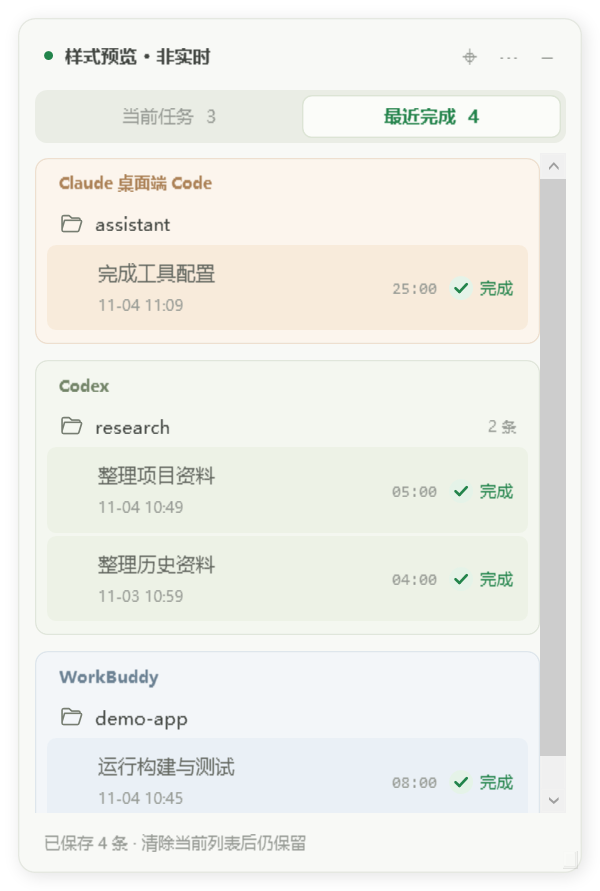
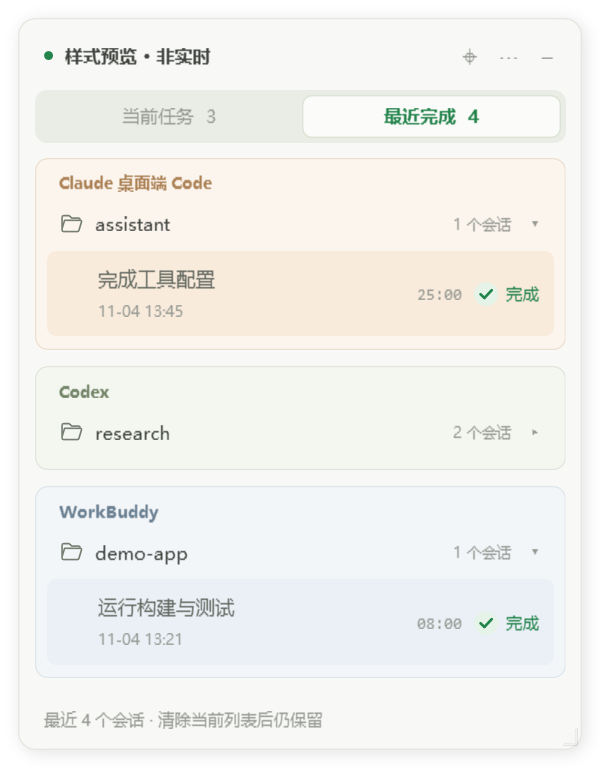
feat: collapse recent folders and show latest completion per session

diff --git a/App.cs b/App.cs
@@ -20,7 +20,7 @@ using Forms = System.Windows.Forms;
 
 [assembly: System.Reflection.AssemblyTitle("一泽的 AI Agent 任务监控")]
 [assembly: System.Reflection.AssemblyProduct("CodexFloat")]
-[assembly: System.Reflection.AssemblyVersion("1.4.1.0")]
+[assembly: System.Reflection.AssemblyVersion("1.5.0.0")]
 namespace CodexFloat {
     static class Program {
         public static string DataDir,Home,WorkBuddyHome,ClaudeHome,CapturePath="",EvidenceDir="";public static bool Demo,DebugTaskbar,PreviewSettings,RenderOnly,InitialRecent;
@@ -111,9 +111,11 @@ namespace CodexFloat {
         string signature="";bool exiting;bool ready;ToastWindow toast;DateTime lastStatusExport;
         List<Session> latest=new List<Session>(),recent=new List<Session>(),displayed=new List<Session>();readonly DateTime demoTime=DateTime.UtcNow;
         bool showingRecent;double currentScroll,recentScroll;
+        readonly HashSet<string> collapsedRecentFolders;
         readonly Dictionary<string,TextBlock> runtimeLabels=new Dictionary<string,TextBlock>();
         public MainWindow(){
             settings=LoadSettings();engine=new MonitoringHub(Program.Home,Program.WorkBuddyHome,Program.DataDir,settings.MonitorCodex,settings.MonitorWorkBuddy,Program.ClaudeHome,settings.MonitorClaude);
+            collapsedRecentFolders=new HashSet<string>(settings.CollapsedRecentFolders??new List<string>(),StringComparer.OrdinalIgnoreCase);
             showingRecent=Program.InitialRecent;
             Title=Program.Demo?"一泽的 AI Agent 样式预览（非实时）":"一泽的 AI Agent 任务监控";FontFamily=new FontFamily("Microsoft YaHei UI, Segoe UI");FontSize=13;
             Width=Math.Max(330,Math.Min(640,settings.Width));SizeToContent=SizeToContent.Height;MinHeight=140;MaxHeight=620;
@@ -178,11 +180,16 @@ namespace CodexFloat {
             showingRecent=history;signature="tab-changed";Refresh();double offset=history?recentScroll:currentScroll;
             Dispatcher.BeginInvoke(new Action(()=>scroll.ScrollToVerticalOffset(offset)),DispatcherPriority.Loaded);
         }
+        void ToggleRecentFolder(string key){
+            if(!collapsedRecentFolders.Remove(key))collapsedRecentFolders.Add(key);
+            settings.CollapsedRecentFolders=collapsedRecentFolders.OrderBy(k=>k,StringComparer.OrdinalIgnoreCase).ToList();SaveSettings();
+            signature="folder-toggled";Refresh();
+        }
         ContextMenu BuildMenu(){var m=Theme.Menu();m.Items.Add(new MenuItem{Header="监控平台",IsEnabled=false});AddCheck(m,"Codex",settings.MonitorCodex,()=>{settings.MonitorCodex=!settings.MonitorCodex;UpdatePlatforms();});AddCheck(m,"WorkBuddy",settings.MonitorWorkBuddy,()=>{settings.MonitorWorkBuddy=!settings.MonitorWorkBuddy;UpdatePlatforms();});AddCheck(m,"Claude 桌面端 Code",settings.MonitorClaude,()=>{settings.MonitorClaude=!settings.MonitorClaude;UpdatePlatforms();});m.Items.Add(new Separator());AddCheck(m,"始终置顶",settings.AlwaysOnTop,()=>ToggleTopmost());AddCheck(m,"完成时播放提示音",settings.Sound,()=>{settings.Sound=!settings.Sound;SaveSettings();});AddCheck(m,"完成时弹出提醒",settings.Notifications,()=>{settings.Notifications=!settings.Notifications;SaveSettings();});m.Items.Add(new Separator());
             var test=new MenuItem{Header="测试完成提醒"};test.Click+=(o,e)=>OnCompleted(new List<Session>{new Session{Title="提醒已开启",Cwd="一泽的 AI Agent 任务监控",Status="completed"}});m.Items.Add(test);
             var reset=new MenuItem{Header="重置窗口位置"};reset.Click+=(o,e)=>{settings.Left=-99999;settings.Top=-99999;PositionWindow();SaveSettings();};m.Items.Add(reset);
             var startup=new MenuItem{Header="开机自动启动",IsCheckable=true,IsChecked=StartupEnabled()};startup.Click+=(o,e)=>SetStartup(startup.IsChecked);m.Items.Add(startup);
-            m.Items.Add(new Separator());var about=new MenuItem{Header="关于 / 使用说明"};about.Click+=(o,e)=>MessageBox.Show(this,"一泽的 AI Agent 任务监控 1.4.1\n\n支持 Codex / WorkBuddy / Claude 桌面端 Code，在菜单中勾选监控平台。\n新一轮开始会自动加入列表。\n绿色代表本轮结束，点击标题打开对应对话。\n中断不会标为完成；状态待确认时不会误报。\n完成记录在「最近完成」保留最近 200 条。\n清除当前列表不影响完成记录。\n拖动顶部移动；右下角调整宽度。\n\n仅在本机读取会话元数据，无网络请求。\n配置与监控记录："+Program.DataDir+"\n\n项目：github.com/YizeAINative/yize-codex-monitor\n参考：github.com/LH-03/agent-monitor-hud", "关于一泽的 AI Agent 任务监控");m.Items.Add(about);
+            m.Items.Add(new Separator());var about=new MenuItem{Header="关于 / 使用说明"};about.Click+=(o,e)=>MessageBox.Show(this,"一泽的 AI Agent 任务监控 1.5.0\n\n支持 Codex / WorkBuddy / Claude 桌面端 Code，在菜单中勾选监控平台。\n新一轮开始会自动加入列表。\n绿色代表本轮结束，点击标题打开对应对话。\n中断不会标为完成；状态待确认时不会误报。\n完成记录在「最近完成」保留最近 200 条。\n清除当前列表不影响完成记录。\n拖动顶部移动；右下角调整宽度。\n\n仅在本机读取会话元数据，无网络请求。\n配置与监控记录："+Program.DataDir+"\n\n项目：github.com/YizeAINative/yize-codex-monitor\n参考：github.com/LH-03/agent-monitor-hud", "关于一泽的 AI Agent 任务监控");m.Items.Add(about);
             var exit=new MenuItem{Header="退出软件"};exit.Click+=(o,e)=>Exit();m.Items.Add(exit);return m;}
         void AddCheck(ContextMenu m,string name,bool check,Action action){var item=new MenuItem{Header=name,IsCheckable=true,IsChecked=check};item.Click+=(o,e)=>action();m.Items.Add(item);}
         bool StartupEnabled(){using(var key=Microsoft.Win32.Registry.CurrentUser.OpenSubKey(@"Software\Microsoft\Windows\CurrentVersion\Run"))return key!=null&&key.GetValue("CodexFloat")!=null;}
@@ -191,9 +198,9 @@ namespace CodexFloat {
             new Session{Id="11111111-1111-4111-8111-111111111111",Title="整理项目资料",Cwd=@"C:\Projects\research",Status="running",Visible=true,StartedAt=demoTime.AddMinutes(-8)},
             new Session{Id="22222222-2222-4222-8222-222222222222",Platform="workbuddy",Title="运行构建与测试",Cwd=@"C:\Projects\demo-app",Status="running",Visible=true,StartedAt=demoTime.AddMinutes(-12)},
             new Session{Id="33333333-3333-4333-8333-333333333333",Platform="claude",Title="完成工具配置",Cwd=@"C:\Projects\assistant",Status="completed",Visible=true,StartedAt=demoTime.AddMinutes(-25),FinishedAt=demoTime}};}
-        List<Session> DemoHistory(){var result=DemoSessions();for(int i=0;i<result.Count;i++){if(result[i].Status!="completed"){result[i].Status="completed";result[i].FinishedAt=demoTime.AddMinutes(-20-i*4);result[i].StartedAt=result[i].FinishedAt.AddMinutes(-5-i*3);}result[i].TurnId="demo-round-"+i;}var earlier=result[0].Copy();earlier.Id="44444444-4444-4444-8444-444444444444";earlier.TurnId="demo-earlier";earlier.Title="整理历史资料";earlier.FinishedAt=demoTime.AddDays(-1).AddMinutes(-10);earlier.StartedAt=earlier.FinishedAt.AddMinutes(-4);result.Add(earlier);return result.OrderByDescending(s=>s.FinishedAt).ToList();}
+        List<Session> DemoHistory(){var result=DemoSessions();for(int i=0;i<result.Count;i++){if(result[i].Status!="completed"){result[i].Status="completed";result[i].FinishedAt=demoTime.AddMinutes(-20-i*4);result[i].StartedAt=result[i].FinishedAt.AddMinutes(-5-i*3);}result[i].TurnId="demo-round-"+i;}var earlier=result[0].Copy();earlier.Id="44444444-4444-4444-8444-444444444444";earlier.TurnId="demo-earlier";earlier.Title="整理历史资料";earlier.FinishedAt=demoTime.AddDays(-1).AddMinutes(-10);earlier.StartedAt=earlier.FinishedAt.AddMinutes(-4);result.Add(earlier);return CompletionHistory.LatestPerSession(result);}
         public void RenderPreview(string path){
-            latest=DemoSessions();recent=DemoHistory();displayed=showingRecent?recent:latest;currentTab.Content="当前任务  "+latest.Count;recentTab.Content="最近完成  "+recent.Count;currentTab.IsChecked=!showingRecent;recentTab.IsChecked=showingRecent;clear.Visibility=showingRecent?Visibility.Collapsed:Visibility.Visible;summary.Text=showingRecent?"已保存 "+recent.Count+" 条 · 清除当前列表后仍保留":"2 个处理中 · 1 个完成";BuildList();var visual=(FrameworkElement)Content;
+            latest=DemoSessions();recent=DemoHistory();displayed=showingRecent?recent:latest;currentTab.Content="当前任务  "+latest.Count;recentTab.Content="最近完成  "+recent.Count;currentTab.IsChecked=!showingRecent;recentTab.IsChecked=showingRecent;clear.Visibility=showingRecent?Visibility.Collapsed:Visibility.Visible;summary.Text=showingRecent?"最近 "+recent.Count+" 个会话 · 清除当前列表后仍保留":"2 个处理中 · 1 个完成";BuildList();var visual=(FrameworkElement)Content;
             visual.Measure(new Size(Width,double.PositiveInfinity));double height=visual.DesiredSize.Height;visual.Arrange(new Rect(0,0,Width,height));visual.UpdateLayout();
             var bitmap=new RenderTargetBitmap((int)Math.Ceiling(Width*1.5),(int)Math.Ceiling(height*1.5),144,144,PixelFormats.Pbgra32);bitmap.Render(visual);var encoder=new PngBitmapEncoder();encoder.Frames.Add(BitmapFrame.Create(bitmap));Directory.CreateDirectory(Path.GetDirectoryName(Path.GetFullPath(path)));using(var f=File.Create(path))encoder.Save(f);
             timer.Stop();tray.Dispose();engine.Dispose();
@@ -202,7 +209,7 @@ namespace CodexFloat {
             string sig=(showingRecent?"recent:":"current:")+string.Join("|",displayed.Select(s=>s.Key+"/"+s.TurnId+"/"+s.Label+"/"+s.Group+"/"+s.Status+"/"+s.StartedAt.Ticks+"/"+s.FinishedAt.Ticks));
             currentTab.Content="当前任务  "+latest.Count;recentTab.Content="最近完成  "+recent.Count;currentTab.IsChecked=!showingRecent;recentTab.IsChecked=showingRecent;clear.Visibility=showingRecent?Visibility.Collapsed:Visibility.Visible;
             int running=latest.Count(s=>s.Status=="running"),done=latest.Count(s=>s.Status=="completed"),other=latest.Count-running-done;
-            summary.Text=showingRecent?(engine.HistoryError!=""?engine.HistoryError:"已保存 "+recent.Count+" 条 · 清除当前列表后仍保留"):(latest.Count==0?(Program.Demo?"演示界面":engine.Health):running+" 个处理中"+(done>0?" · "+done+" 个完成":"")+(other>0?" · "+other+" 个待查看":""));summary.ToolTip=showingRecent?"保留最近 200 条完成记录，重新启动后也能查看":"开始执行自动加入 · 绿色代表本轮结束";
+            summary.Text=showingRecent?(engine.HistoryError!=""?engine.HistoryError:"最近 "+recent.Count+" 个会话 · 清除当前列表后仍保留"):(latest.Count==0?(Program.Demo?"演示界面":engine.Health):running+" 个处理中"+(done>0?" · "+done+" 个完成":"")+(other>0?" · "+other+" 个待查看":""));summary.ToolTip=showingRecent?"每个会话只显示最新完成，折叠状态和完成记录重启后保留":"开始执行自动加入 · 绿色代表本轮结束";
             tray.Text="一泽的 AI Agent 任务监控 · "+running+" 处理中 · "+done+" 完成";
             if(sig!=signature||list.Children.Count==0){signature=sig;BuildList();if(Program.EvidenceDir!=""&&ready)Dispatcher.BeginInvoke(new Action(()=>Capture(Path.Combine(Program.EvidenceDir,"window.png"))),DispatcherPriority.ContextIdle);}
             if(!showingRecent)foreach(var session in latest){TextBlock label;if(runtimeLabels.TryGetValue(session.Key,out label))label.Text=session.RuntimeText(DateTime.UtcNow);}
@@ -216,11 +223,9 @@ namespace CodexFloat {
                 var body=new StackPanel();card.Child=body;var platformTitle=Theme.Text(platformGroup.First().PlatformName,11,Theme.B(claude?"#AC8156":buddy?"#6B8193":"#718366"));platformTitle.FontWeight=FontWeights.SemiBold;platformTitle.Margin=new Thickness(8,0,8,2);body.Children.Add(platformTitle);
                 if(showingRecent){
                     foreach(var folder in platformGroup.GroupBy(s=>HistoryFolderKey(s),StringComparer.OrdinalIgnoreCase).OrderByDescending(g=>g.Max(s=>s.FinishedAt))){
-                        var session=folder.OrderByDescending(s=>s.FinishedAt).First();
-                        var project=new Grid{Margin=new Thickness(8,9,8,4)};project.ColumnDefinitions.Add(new ColumnDefinition{Width=new GridLength(16)});project.ColumnDefinitions.Add(new ColumnDefinition());project.ColumnDefinitions.Add(new ColumnDefinition{Width=GridLength.Auto});project.Children.Add(new FolderMark());
-                        var name=Theme.Text(session.Group,12,Theme.Ink);name.Margin=new Thickness(8,0,8,0);name.ToolTip=session.Cwd;Grid.SetColumn(name,1);project.Children.Add(name);
-                        if(folder.Count()>1){var count=Theme.Text(folder.Count()+" 条",10,Theme.Muted);Grid.SetColumn(count,2);project.Children.Add(count);}body.Children.Add(project);
-                        foreach(var entry in folder.OrderByDescending(s=>s.FinishedAt))body.Children.Add(Row(entry,true));
+                        var session=folder.OrderByDescending(s=>s.FinishedAt).First();string key=platformGroup.Key+"|"+folder.Key;bool collapsed=collapsedRecentFolders.Contains(key);
+                        body.Children.Add(RecentFolderHeader(session,folder.Count(),key,collapsed));
+                        if(!collapsed)foreach(var entry in folder.OrderByDescending(s=>s.FinishedAt))body.Children.Add(Row(entry,true));
                     }list.Children.Add(card);continue;
                 }
                 foreach(var group in platformGroup.GroupBy(s=>s.Cwd+"|"+s.Group).OrderByDescending(g=>g.Max(s=>s.StartedAt))){
@@ -230,6 +235,19 @@ namespace CodexFloat {
             }scroll.ScrollToVerticalOffset(old);
         }
         static string HistoryFolderKey(Session s){return string.IsNullOrWhiteSpace(s.Cwd)?"session:"+s.Id:s.Cwd.Replace('/','\\').TrimEnd('\\');}
+        Button RecentFolderHeader(Session session,int count,string key,bool collapsed){
+            var button=new Button{Padding=new Thickness(0),BorderThickness=new Thickness(0),Background=Brushes.Transparent,HorizontalContentAlignment=HorizontalAlignment.Stretch,Cursor=Cursors.Hand,Margin=new Thickness(0,4,0,3),ToolTip=collapsed?"点击展开文件夹":"点击收起文件夹"};
+            System.Windows.Automation.AutomationProperties.SetName(button,session.Group+"，"+(collapsed?"已折叠":"已展开")+"，"+count+" 个会话");
+            var template=new ControlTemplate(typeof(Button));var content=new FrameworkElementFactory(typeof(ContentPresenter));content.SetValue(ContentPresenter.HorizontalAlignmentProperty,HorizontalAlignment.Stretch);template.VisualTree=content;button.Template=template;
+            var border=new Border{CornerRadius=new CornerRadius(5),Padding=new Thickness(8,5,8,5),Background=Brushes.Transparent};button.Content=border;
+            var row=new Grid();row.ColumnDefinitions.Add(new ColumnDefinition{Width=new GridLength(16)});row.ColumnDefinitions.Add(new ColumnDefinition());row.ColumnDefinitions.Add(new ColumnDefinition{Width=GridLength.Auto});row.ColumnDefinitions.Add(new ColumnDefinition{Width=new GridLength(20)});border.Child=row;row.Children.Add(new FolderMark());
+            var name=Theme.Text(session.Group,12,Theme.Ink);name.Margin=new Thickness(8,0,8,0);name.ToolTip=session.Cwd;Grid.SetColumn(name,1);row.Children.Add(name);
+            var number=Theme.Text(count+" 个会话",10,Theme.Muted);Grid.SetColumn(number,2);row.Children.Add(number);
+            var arrow=Theme.Text(collapsed?"▸":"▾",11,Theme.Muted);arrow.HorizontalAlignment=HorizontalAlignment.Right;Grid.SetColumn(arrow,3);row.Children.Add(arrow);
+            var hover=Theme.B(session.Platform=="claude"?"#F8EEDF":session.Platform=="workbuddy"?"#EAF0F6":"#EDF2E6");
+            button.MouseEnter+=(o,e)=>border.Background=hover;button.MouseLeave+=(o,e)=>border.Background=Brushes.Transparent;
+            button.Click+=(o,e)=>ToggleRecentFolder(key);return button;
+        }
         static string CompletedAt(Session s){return s.FinishedAt.ToLocalTime().ToString("MM-dd HH:mm");}
         UIElement Row(Session session,bool historical=false){
             var button=new Button{Background=Brushes.Transparent,BorderThickness=new Thickness(0),Padding=new Thickness(0),HorizontalContentAlignment=HorizontalAlignment.Stretch,Cursor=Cursors.Hand,ToolTip=session.Label+"\n"+StateText(session.Status)+" · "+Duration(session)+"\n点击打开对应对话",Margin=new Thickness(0,1,0,1)};

diff --git a/Tests.cs b/Tests.cs
@@ -20,9 +20,11 @@ namespace CodexFloat {
             var duplicate=Finished(id,"round1",at.AddMilliseconds(40));h.Record(new[]{duplicate});Check(h.Snapshot().Count==1,"history deduplicates repeated round completion");
             h.Record(new[]{Finished(id,"round2",at.AddMinutes(5))});Check(h.Snapshot().Count==2&&h.Snapshot()[0].TurnId=="round2","history keeps distinct rounds newest first");
             h.Record(new[]{Finished(id,"round2",at.AddMinutes(5),"workbuddy")});Check(h.Snapshot().Count==3,"history separates same ID across platforms");
+            Check(h.LatestSnapshot().Count==2&&h.LatestSnapshot().Single(s=>s.Platform=="codex").TurnId=="round2","recent view shows newest round once per platform and session");
             var exported=h.Snapshot();exported[0].Title="Changed by caller";Check(h.Snapshot().All(s=>s.Title!="Changed by caller"),"history snapshots cannot mutate stored records");Check(h.Snapshot().All(s=>s.FilePath==""),"history does not store source log paths");
             var failed=Finished(Guid.NewGuid().ToString(),"failed",at);failed.Status="failed";var child=Finished(Guid.NewGuid().ToString(),"child",at);child.IsChild=true;h.Record(new[]{failed,child});Check(h.Snapshot().Count==3,"history excludes failures and internal agents");
             Check(new CompletionHistory(data).Snapshot().Count==3,"history persists across widget restart");
+            Check(new CompletionHistory(data).LatestSnapshot().Count==2,"latest-only recent view survives restart");
             string sameTime=Path.Combine(root,"history-same-time");var simultaneous=new CompletionHistory(sameTime);simultaneous.Record(new[]{Finished(id,"a",at),Finished(id,"b",at)});Check(simultaneous.Snapshot().Count==2,"explicit separate rounds remain separate at identical timestamp");
             string localId="local_eeeeeeee-eeee-4eee-8eee-eeeeeeeeeeee";var desktop=new CompletionHistory(Path.Combine(root,"history-desktop"));desktop.Record(new[]{Finished(localId,"desktop-123",at,"claude"),Finished(localId,"actual-turn",at,"claude")});Check(desktop.Snapshot().Count==1,"desktop tail identity change does not duplicate same completion");
             var capped=new CompletionHistory(Path.Combine(root,"history-capacity"));capped.Record(Enumerable.Range(0,215).Select(i=>Finished(id,"round-"+i,at.AddMinutes(i))));Check(capped.Snapshot().Count==200&&capped.Snapshot().First().TurnId=="round-214"&&capped.Snapshot().Last().TurnId=="round-15","history retains newest 200 records in order");
@@ -31,7 +33,12 @@ namespace CodexFloat {
             string backup=Path.Combine(root,"history-backup");var saved=new CompletionHistory(backup);saved.Record(new[]{Finished(id,"one",at)});saved.Record(new[]{Finished(id,"two",at.AddMinutes(1))});File.WriteAllText(Path.Combine(backup,"completion-history.json"),"broken");Check(new CompletionHistory(backup).Snapshot().Single().TurnId=="one","history recovers last backup if current file is corrupt");
             string source=Path.Combine(root,"history-hub-source"),hubData=Path.Combine(root,"history-hub-state");string file=MakeSession(Path.Combine(source,"sessions","2026","01","01"),id,false,"task_started");
             using(var hub=new MonitoringHub(source,Path.Combine(root,"absent"),hubData,true,false)){hub.Poll();Append(file,Event("task_complete","t1")+"\n");hub.Poll();hub.ClearFinished();Check(hub.Snapshot().Count==0&&hub.RecentCompleted().Count==1,"clearing current list keeps recent completed history");hub.Configure(false,false);Check(hub.RecentCompleted().Count==1,"platform switch off does not erase past completions");}
-            using(var hub=new MonitoringHub(source,Path.Combine(root,"absent"),hubData,false,false)){Check(hub.RecentCompleted().Count==1,"cleared history is available on restart with all platforms off");hub.Configure(true,false);hub.Poll();Append(file,Event("task_started","t2")+"\n");hub.Poll();Check(hub.Snapshot().Single().Status=="running"&&hub.RecentCompleted().Single().TurnId=="t1","new running round does not overwrite earlier completion");Append(file,Event("task_complete","t2")+"\n");hub.Poll();Check(hub.RecentCompleted().Count==2,"next round adds another independent completion");}
+            using(var hub=new MonitoringHub(source,Path.Combine(root,"absent"),hubData,false,false)){Check(hub.RecentCompleted().Count==1,"cleared history is available on restart with all platforms off");hub.Configure(true,false);hub.Poll();Append(file,Event("task_started","t2")+"\n");hub.Poll();Check(hub.Snapshot().Single().Status=="running"&&hub.RecentCompleted().Single().TurnId=="t1","new running round does not overwrite earlier completion");Append(file,Event("task_complete","t2")+"\n");hub.Poll();Check(hub.RecentCompleted().Count==1&&hub.RecentCompleted().Single().TurnId=="t2","next completed round replaces older round in recent view");}
+            var newer=Finished(id,"newer",at.AddMinutes(9));newer.Title="Updated title";newer.Cwd=@"C:\Projects\new-location";var other=Finished("ffffffff-ffff-4fff-8fff-ffffffffffff","other",at.AddMinutes(8));other.Title=newer.Title;
+            var projected=CompletionHistory.LatestPerSession(new[]{Finished(id,"old",at),other,newer});Check(projected.Count==2&&projected[0].Title=="Updated title"&&projected[0].Cwd==newer.Cwd,"latest title and folder are used without merging same-name sessions");
+            projected[0].Title="Mutated view";Check(newer.Title=="Updated title","latest projection preserves immutable stored snapshot");
+            h.Record(new[]{Finished(id,"out-of-order-old",at.AddDays(-1))});Check(h.LatestSnapshot().Single(s=>s.Platform=="codex").TurnId=="round2","late older completion cannot replace newer visible completion");
+            var preferences=new Settings{MonitorWorkBuddy=false,CollapsedRecentFolders=new List<string>{@"codex|C:\Projects\fixture"}};var restored=Json.Serializer().Deserialize<Settings>(Json.Serializer().Serialize(preferences));Check(restored.CollapsedRecentFolders.Single()==preferences.CollapsedRecentFolders.Single()&&!restored.MonitorWorkBuddy,"collapsed folder preferences preserve unrelated platform choices");
         }
         static string CcLine(string id,string type,string uuid,object message,bool side=false,string subtype="",bool meta=false,bool error=false){return Json.Serializer().Serialize(new{sessionId=id,type=type,uuid=uuid,cwd=@"C:\Projects\fixture",timestamp=DateTime.UtcNow.ToString("O"),isSidechain=side,isMeta=meta,isApiErrorMessage=error,subtype=subtype,message=message})+"\n";}
         static void ClaudeChecks(){

diff --git a/UiTests.cs b/UiTests.cs
@@ -1,0 +1,37 @@
+using System;
+using System.IO;
+using System.Linq;
+using System.Reflection;
+using System.Collections.Generic;
+using System.Windows;
+using System.Windows.Automation;
+using System.Windows.Controls;
+using System.Windows.Controls.Primitives;
+using System.Windows.Media;
+using CodexFloat;
+
+class UiTests {
+    static int passed;
+    static void Check(bool value,string name){if(!value)throw new Exception("FAIL: "+name);passed++;Console.WriteLine("PASS: "+name);}
+    static IEnumerable<Button> Buttons(DependencyObject root){
+        var button=root as Button;if(button!=null)yield return button;
+        for(int i=0;i<VisualTreeHelper.GetChildrenCount(root);i++)foreach(var item in Buttons(VisualTreeHelper.GetChild(root,i)))yield return item;
+    }
+    static Button Find(MainWindow window,string prefix){Layout(window);return Buttons((DependencyObject)window.Content).FirstOrDefault(b=>AutomationProperties.GetName(b).StartsWith(prefix,StringComparison.Ordinal));}
+    static void Layout(MainWindow window){var content=(FrameworkElement)window.Content;content.Measure(new Size(window.Width,double.PositiveInfinity));content.Arrange(new Rect(0,0,window.Width,content.DesiredSize.Height));content.UpdateLayout();}
+    static void Click(Button button){if(button==null)throw new Exception("Button missing");button.RaiseEvent(new RoutedEventArgs(ButtonBase.ClickEvent));}
+    [STAThread] static int Main(){try{
+        string root=Path.Combine(Path.GetTempPath(),"YizeUiTests-"+Guid.NewGuid().ToString("N"));Directory.CreateDirectory(root);
+        var program=typeof(MainWindow).Assembly.GetType("CodexFloat.Program");Action<string,object> set=(key,value)=>program.GetField(key,BindingFlags.Static|BindingFlags.Public).SetValue(null,value);
+        set("Home",Path.Combine(root,"codex"));set("WorkBuddyHome",Path.Combine(root,"workbuddy"));set("ClaudeHome",Path.Combine(root,"claude"));set("DataDir",root);set("Demo",true);set("RenderOnly",true);set("InitialRecent",true);
+        var app=new Application();var window=new MainWindow{Left=100,Top=100};window.RenderPreview(Path.Combine(root,"expanded.png"));
+        Check(Find(window,"整理项目资料，")!=null&&Find(window,"整理历史资料，")!=null,"recent folder initially shows its conversations");
+        Click(Find(window,"research，"));Check(Find(window,"整理项目资料，")==null&&Find(window,"整理历史资料，")==null,"clicking folder header hides its conversation rows");
+        Check(Find(window,"运行构建与测试，")!=null,"collapsing one folder leaves other folders visible");
+        Check(AutomationProperties.GetName(Find(window,"research，")).Contains("已折叠"),"collapsed header exposes the correct accessible state");
+        window.RenderPreview(Path.Combine(root,"collapsed.png"));Check(Find(window,"整理项目资料，")==null,"rerender keeps folder collapsed");
+        Click(Find(window,"research，"));Check(Find(window,"整理项目资料，")!=null&&Find(window,"整理历史资料，")!=null,"clicking collapsed header expands its rows");
+        Click(Find(window,"research，"));var second=new MainWindow{Left=100,Top=100};second.RenderPreview(Path.Combine(root,"restarted.png"));Check(Find(second,"整理项目资料，")==null&&AutomationProperties.GetName(Find(second,"research，")).Contains("已折叠"),"new window restores persisted collapsed folder");
+        Console.WriteLine("ALL "+passed+" UI CHECKS PASSED\nEvidence: "+root);return 0;
+    }catch(Exception ex){Console.Error.WriteLine(ex);return 1;}}
+}

diff --git a/WorkBuddy.cs b/WorkBuddy.cs
@@ -139,7 +139,7 @@ namespace CodexFloat {
         }}
         void Forward(List<Session> items){history.Record(items);if(Completed!=null)Completed(items);}
         void RememberCompletions(){if(codex!=null)history.Record(codex.CompletedSnapshot());if(workbuddy!=null)history.Record(workbuddy.CompletedSnapshot());if(claude!=null)history.Record(claude.CompletedSnapshot());}
-        public List<Session> RecentCompleted(){return history.Snapshot();}
+        public List<Session> RecentCompleted(){return history.LatestSnapshot();}
         public string HistoryError {get{return history.Error;}}
         public List<Session> Snapshot(){lock(gate){var list=new List<Session>();if(enableCodex&&codex!=null)list.AddRange(codex.Snapshot());if(enableWorkBuddy&&workbuddy!=null)list.AddRange(workbuddy.Snapshot());if(enableClaude&&claude!=null)list.AddRange(claude.Snapshot());return list;}}
         public void ClearFinished(){lock(gate){RememberCompletions();if(enableCodex&&codex!=null)codex.ClearFinished();if(enableWorkBuddy&&workbuddy!=null)workbuddy.ClearFinished();if(enableClaude&&claude!=null)claude.ClearFinished();}}

diff --git a/History.cs b/History.cs
@@ -48,6 +48,12 @@ namespace CodexFloat {
         }
         public void Record(IEnumerable<Session> items){lock(gate){foreach(var item in items)if(Add(item))dirty=true;Flush();}}
         public List<Session> Snapshot(){lock(gate)return entries.Select(e=>e.Copy()).ToList();}
+        public static List<Session> LatestPerSession(IEnumerable<Session> source){
+            return source.GroupBy(s=>s.Key,StringComparer.OrdinalIgnoreCase)
+                .Select(g=>g.OrderByDescending(s=>s.FinishedAt).ThenByDescending(s=>s.StartedAt).First().Copy())
+                .OrderByDescending(s=>s.FinishedAt).ToList();
+        }
+        public List<Session> LatestSnapshot(){lock(gate)return LatestPerSession(entries);}
         public void Flush(){lock(gate){
             if(!dirty||DateTime.UtcNow<retryAt)return;
             try{

diff --git a/Core.cs b/Core.cs
@@ -158,6 +158,7 @@ namespace CodexFloat {
     }
 
     public class Settings {
+        public List<string> CollapsedRecentFolders=new List<string>();
         public bool MonitorCodex=true, MonitorWorkBuddy=true, MonitorClaude=true;
         public bool Sound=true, Notifications=true, AlwaysOnTop=true;
         public double Left=-99999,Top=-99999,Width=400;
